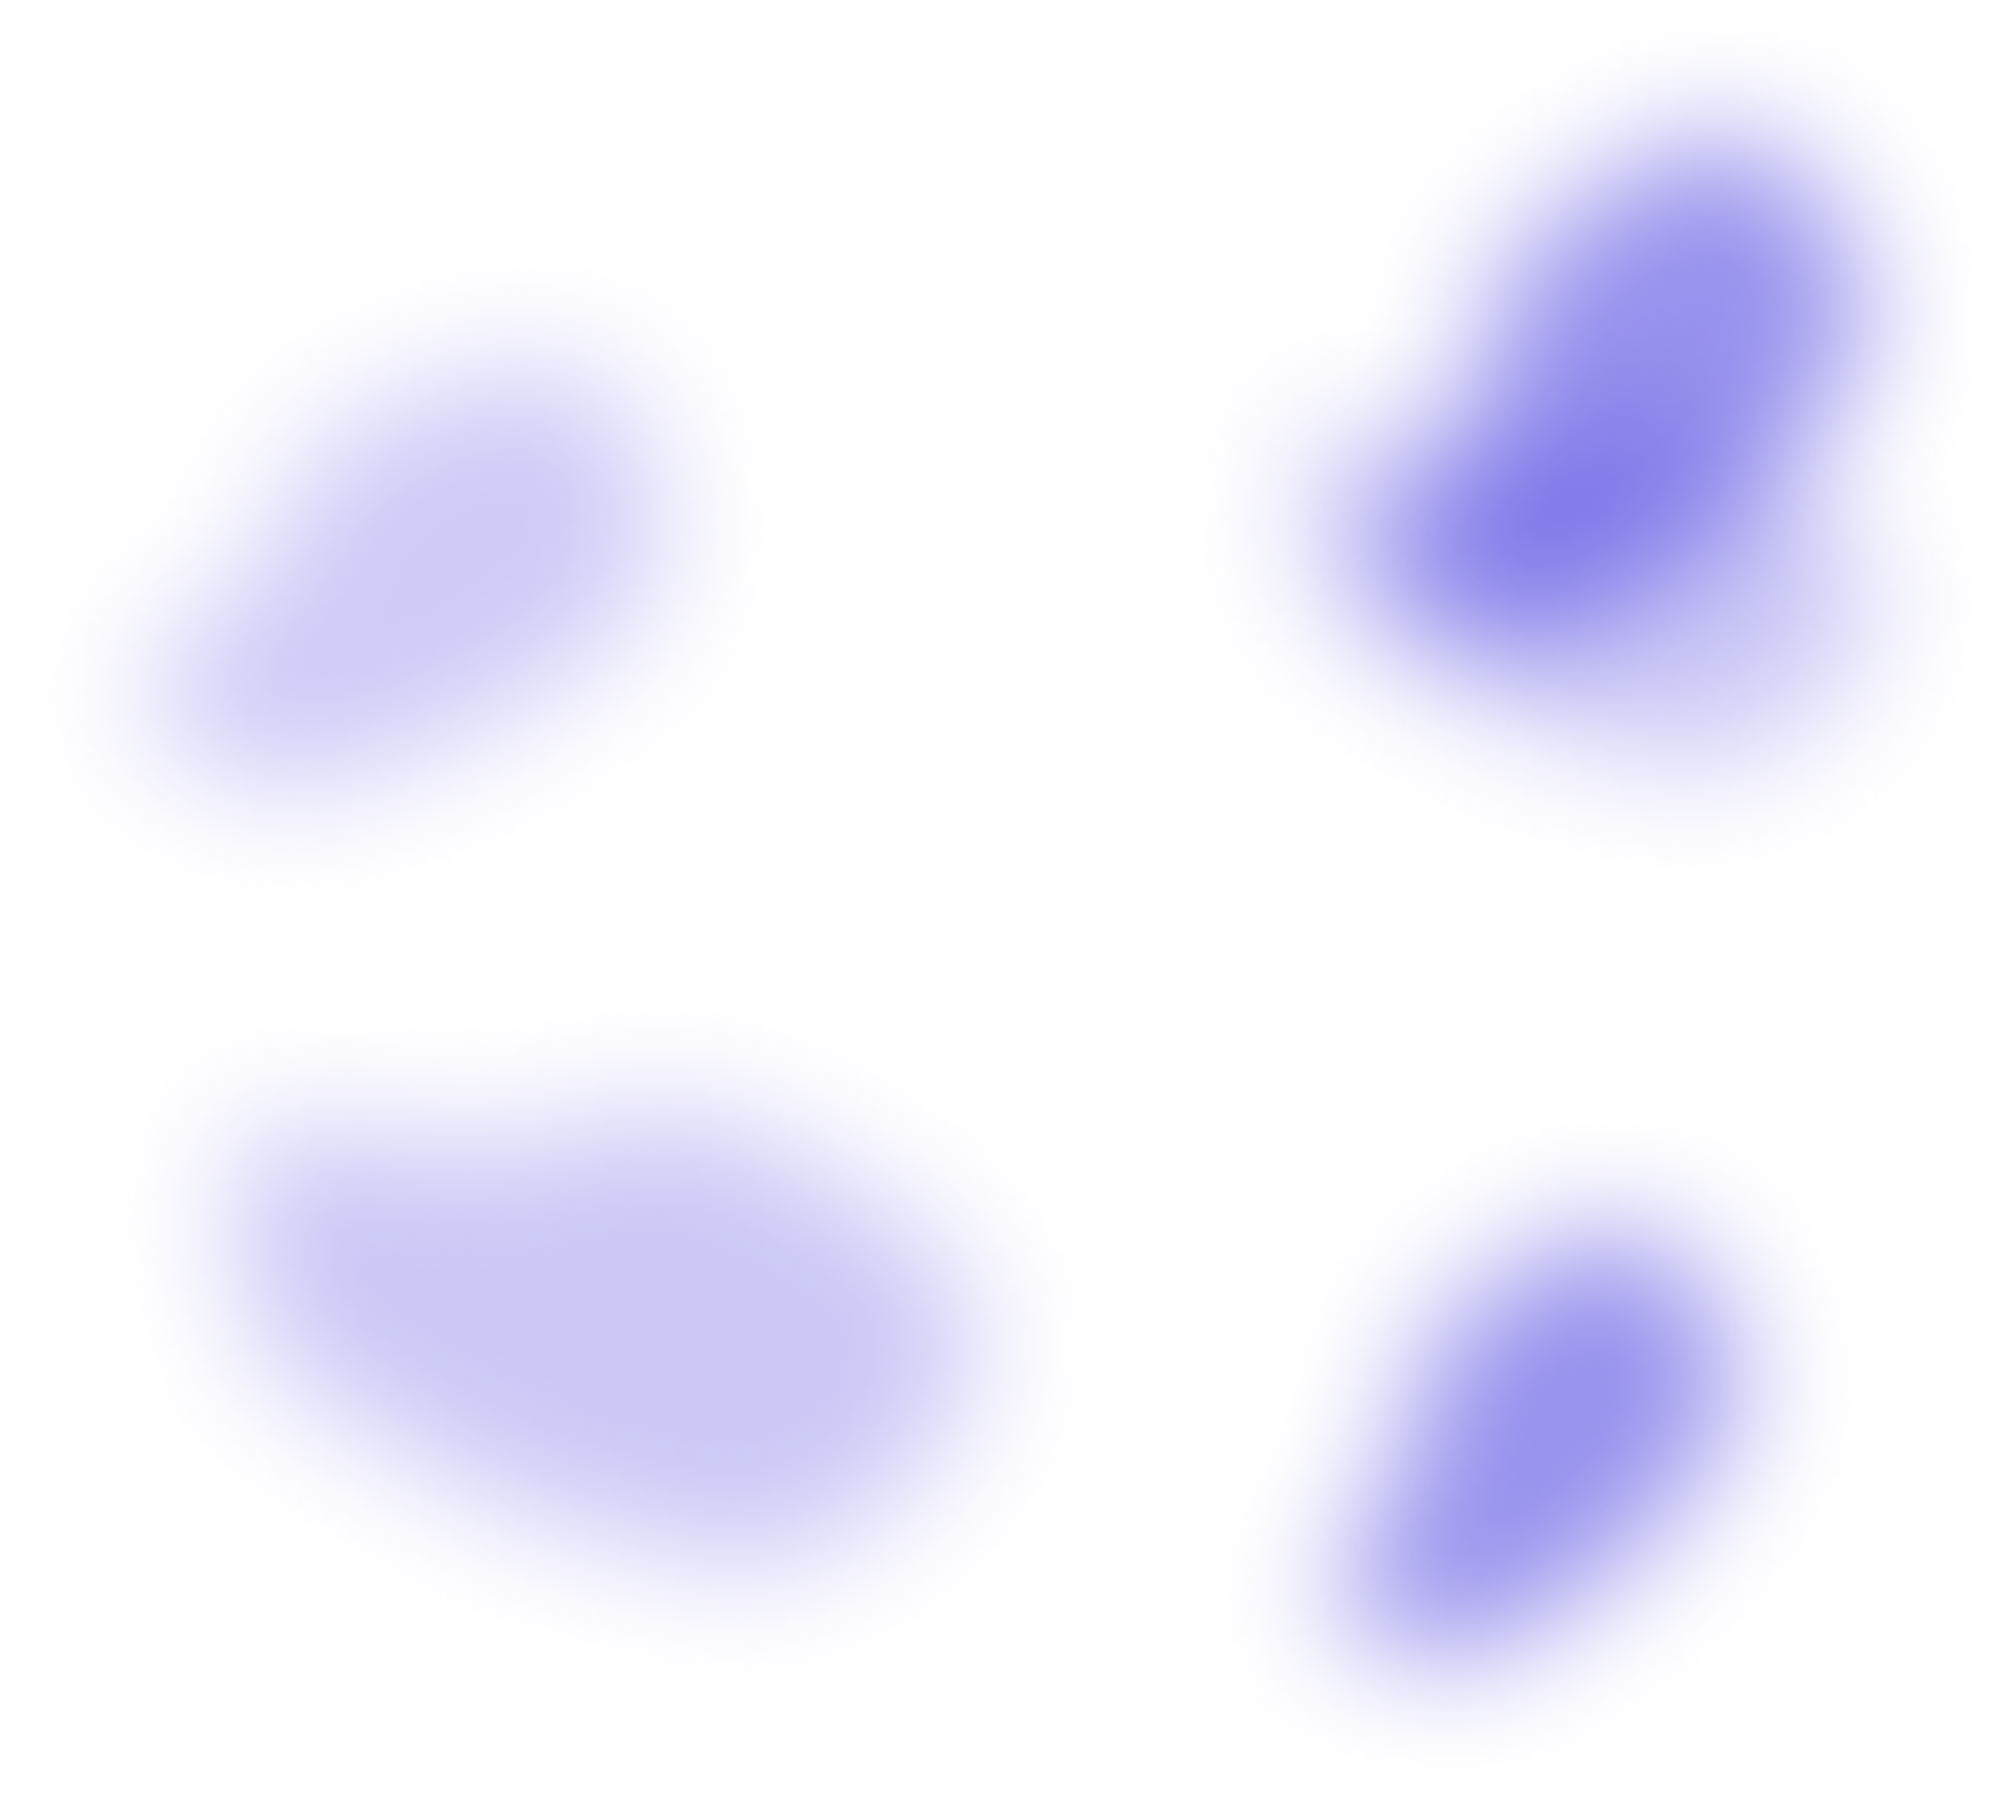
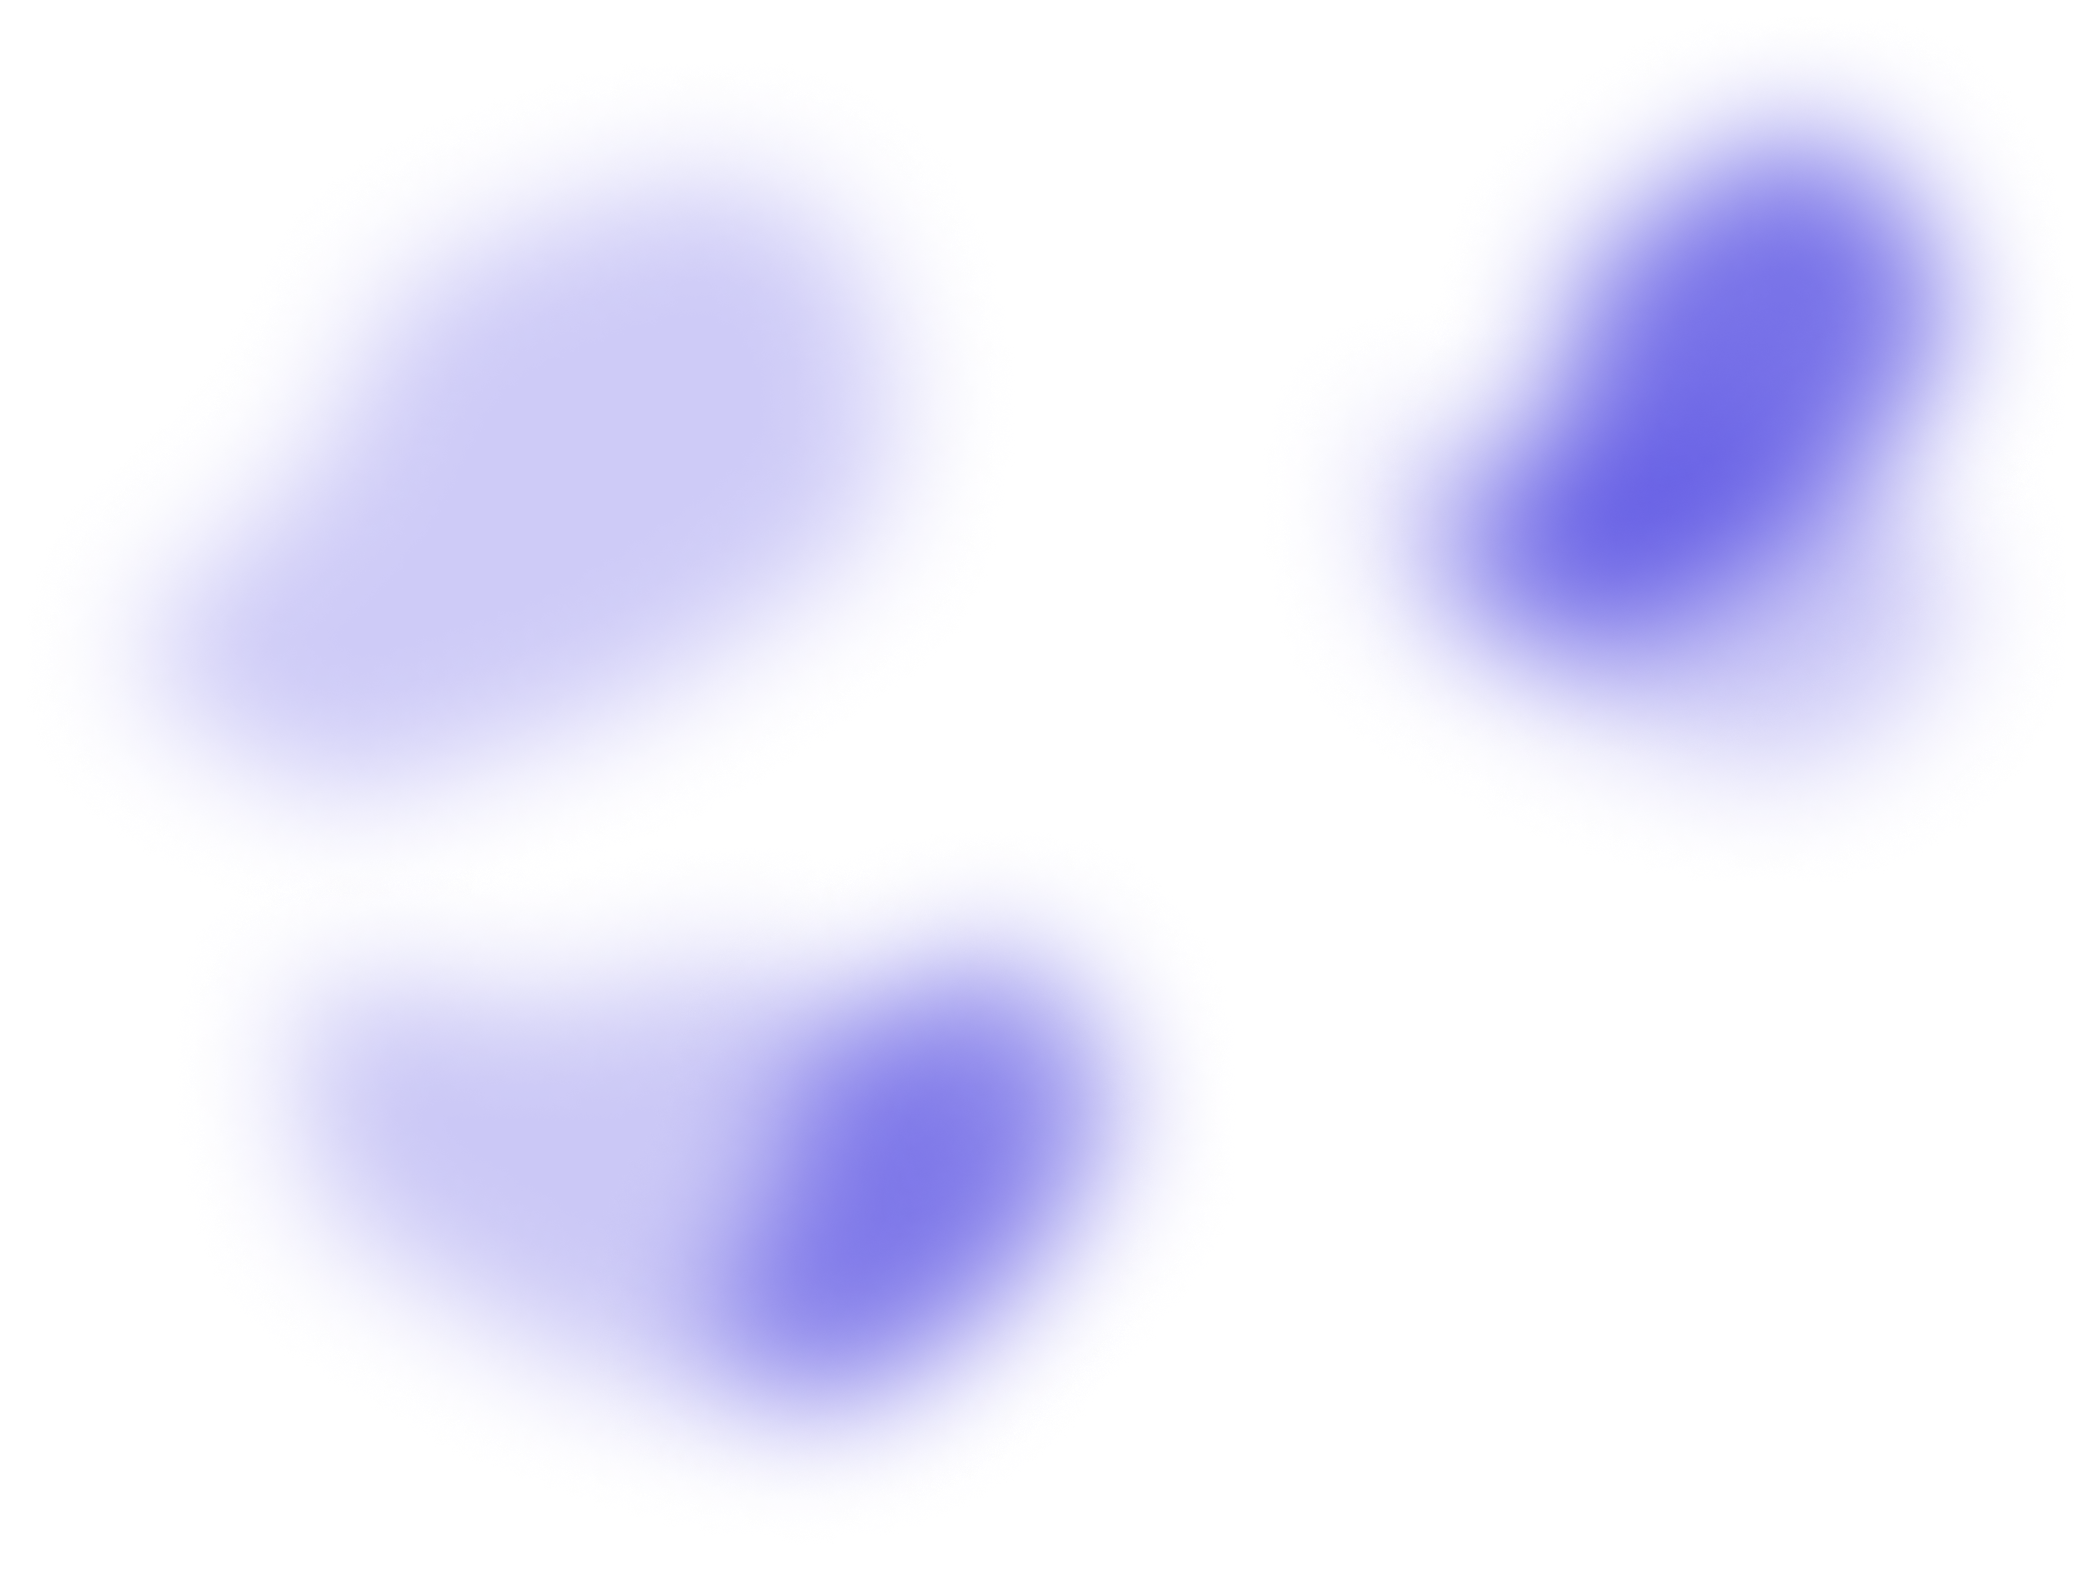
fix: adjust animations and backgounds

diff --git a/src/components/Home/Competencies/Competencies.tsx b/src/components/Home/Competencies/Competencies.tsx
@@ -12,16 +12,16 @@ const Competencies = () => {
   }
 
   return (
-    <section id="advantages" className={`bg-brand-400 py-11 relative transition-all duration-300 ${!seeMore ? 'max-h-mobile md:max-h-desktop overflow-hidden' : 'h-fit'}  after:content-[""] after:w-full after:h-80 after:absolute after:bottom-0 after:z-10 after:bg-gradient-to-t from-brand-400 ...`}>
+    <section id="advantages" className={`bg-brand-400 py-11 relative bg-[url('../assets/blur.png')] bg-no-repeat bg-cover transition-all duration-300 ${!seeMore ? 'max-h-mobile md:max-h-desktop overflow-hidden' : 'h-fit'}  after:content-[""] after:w-full after:h-80 after:absolute after:bottom-0 after:z-10 after:bg-gradient-to-t from-brand-400 ...`}>
       <div className='my-0 mx-auto p-4 max-w-screen-2xl flex flex-col gap-11'>
         <div className='font-default-font flex flex-col gap-2'>
-          <h2 data-aos="fade-right" className=' text-white-primary text-2xl	font-extrabold'>Porquê vale a pena?</h2>
+          <h2 data-aos="fade-right" className=' text-2xl max-w-xs font-extrabold bg-advantagesGradient bg-clip-text text-transparent'>Porquê vale a pena?</h2>
           <p data-aos="fade-right" className='text-grey-100 text-xs	font-light'>Entenda como podemos facilitar o seu dia a dia</p>
         </div>
 
         <ul className='flex flex-wrap	gap-6 justify-between pb-14'>
           {dataCard.map((data) => (
-             <li data-aos="fade-up" data-aos-delay={`${data.id * 200}`} data-aos-offset="100" key={data.id} className='flex flex-col flex-1 gap-6 bg-white-primary rounded-lg	py-4 px-6 min-w-card max-w-md md:max-w-xs md:flex-none'>
+             <li data-aos="fade-up" data-aos-delay={`${data.id * 150}`} data-aos-offset="100" key={data.id} className='flex flex-col flex-1 gap-6 bg-white-primary rounded-lg	py-4 px-6 min-w-card max-w-md md:max-w-xs md:flex-none'>
              <div className='flex gap-3 items-center'>
                <div className='rounded-full border-grey-100 border p-1'>
                  <MdGraphicEq className='text-brand-200' size={24}/>

diff --git a/src/components/Home/Contact/Contact.tsx b/src/components/Home/Contact/Contact.tsx
@@ -19,16 +19,16 @@ const Contact = () => {
             <p className="text-base text-brand-500 font-default-font font-normal">+55 99 99999-9999</p>
           </div> */}
 
-          <div className="flex gap-2 items-center">
+          <div data-aos="fade-right" className="flex gap-2 items-center">
             <IoIosCopy title="Copiar email" className="text-white-total cursor-pointer " size={16}/>
-            <Link href={"mailto:swiftstock@gmail.com"} className="text-base text-brand-500 font-default-font font-normal underline">swiftstock@gmail.com</Link>
+            <Link href={"mailto:switftstock@gmail.com"} className="text-base text-brand-500 font-default-font font-normal underline">switftstock@gmail.com</Link>
           </div>
         </div>
       </div>
 
       <div className="flex flex-col gap-4 w-full md:flex-row justify-center md:w-auto">
   {/* <Link className="flex items-center justify-center py-3 rounded w-full md:w-auto bg-white-primary text-brand-300 font-default-font font-semibold text-base md:px-16" href="#">Whatsapp</Link> */}
-  <Link className="flex items-center justify-center py-3 rounded w-full md:w-auto bg-white-primary text-brand-300 font-default-font font-semibold text-base md:px-16" href="#">Enviar Email</Link>
+  <Link data-aos="fade-right" className="flex items-center justify-center py-3 rounded w-full md:w-auto bg-white-primary text-brand-300 font-default-font font-semibold text-base md:px-16" href="mailto:switftstock@gmail.com">Enviar Email</Link>
 </div>
 
       </div>

diff --git a/src/components/Home/SocialMediaLinks/SocialMediaLinks.tsx b/src/components/Home/SocialMediaLinks/SocialMediaLinks.tsx
@@ -12,15 +12,15 @@ interface ISocialMediaLinksProps{
 const SocialMediaLinks = ({bigger}: ISocialMediaLinksProps) => {
     return(
         <div className="flex justify-center md:justify-end items-center gap-6">
-            <Link data-aos="fade-up" href="" data-aos-offset="0" className="transition-all ease-in duration-75 hover:-translate-y-1">
+            <Link href=""className="transition-all ease-in duration-75 hover:-translate-y-1">
                 <RiWhatsappFill className={`${bigger ? "w-6 h-6" : "w-5 h-5"}`}/>
             </Link>
 
-            <Link data-aos="fade-up" data-aos-delay="250" data-aos-offset="0" href="https://www.linkedin.com/in/swift-stock-3a2403286/" className="transition-all ease-in duration-75 hover:-translate-y-1">
+            <Link href="https://www.linkedin.com/in/swift-stock-3a2403286/" className="transition-all ease-in duration-75 hover:-translate-y-1">
                 <FaLinkedin className={`${bigger ? "w-6 h-6" : "w-5 h-5"}`}/>
             </Link>
 
-            <Link data-aos="fade-up" data-aos-delay="500" data-aos-offset="0" href="https://www.instagram.com/switftstock" className="transition-all ease-in duration-75 hover:-translate-y-1">
+            <Link href="https://www.instagram.com/switftstock" className="transition-all ease-in duration-75 hover:-translate-y-1">
                 <PiInstagramLogoFill className={`${bigger ? "w-6 h-6" : "w-5 h-5"}`}/>
             </Link>
         </div>

diff --git a/src/components/Home/HomeForm/HomeForm.tsx b/src/components/Home/HomeForm/HomeForm.tsx
@@ -90,13 +90,13 @@ const HomeForm = () => {
                             placeholder="Insira seu Número de telefone" type="text" minLength={15} maxLength={15} value={phoneNumber} required 
                             onChange={(e) => handlePhoneNumberChange(e)}
                         />
-                        <div data-aos="fade-right" className="flex items-center gap-3">
+                        <div data-aos="zoom-in-up" className="flex items-center gap-3">
                             <input id="accept-notifications" type="checkbox" required/>
                             <label htmlFor="accept-notifications" className="text-grey-300 text-xs font-normal">
                                 Concordo em ser notificado sobre o lançamento da Swift Stock
                             </label>
                         </div>
-                        <Button aos="fade-right" type="submit" className="mt-6 max-w-full rounded-md">Quero ser notificado!</Button>
+                        <Button aos="zoom-in-up" type="submit" className="mt-6 max-w-full rounded-md">Quero ser notificado!</Button>
                     </form>
 
                 </div>

diff --git a/src/components/Home/About/About.tsx b/src/components/Home/About/About.tsx
@@ -3,6 +3,7 @@ import Link from "next/link";
 import { PiArrowUpLight } from "react-icons/pi";
 import logoIcon from "../../../assets/logoIcon.svg";
 import Image from "next/image";
+import swiftStockUI from "../../../assets/swifStockUI.jpg";
 
 
 const About = () => {
@@ -29,10 +30,10 @@ const About = () => {
                 </div>
             </Container>
 
-            <figure className="w-full max-w-7xl h-[720px] overflow-auto bg-brand-400 rounded-2xl flex items-center justify-center
+            <figure data-aos="fade-left" className="w-full max-w-7xl h-[720px] overflow-auto bg-brand-400 rounded-2xl flex items-start justify-start
             shadow-2xl m-5 lg:absolute lg:-right-[500px] 2xl:-right-[450px] lg:-top-28 lg:w-[1280px]">
-                <img className="w-full h-full object-cover"
-                src="" 
+                <img className="h-full lg:w-full lg:h-auto object-cover"
+                src={swiftStockUI.src}
                 alt="interface da SwiftStock"/>
             </figure>
 

diff --git a/src/components/Home/Footer/Footer.tsx b/src/components/Home/Footer/Footer.tsx
@@ -8,7 +8,7 @@ import { AiOutlineArrowUp } from "react-icons/ai";
 
 const Footer = () => {
     return(
-        <footer className="bottom-0 w-screen h-96 bg-brand-400 py-8 bg-[url('/src/assets/footerBg.png')]">
+        <footer className="bottom-0 w-screen h-96 bg-brand-400 py-8 bg-[url('../assets/blur.png')] bg-no-repeat bg-cover">
             <Container className="relative  h-full">
 
                 <div className="group w-100 flex justify-center -translate-y-16">

diff --git a/tailwind.config.js b/tailwind.config.js
@@ -9,6 +9,7 @@ module.exports = {
     extend: {
       backgroundImage: {
         headingGradient: 'radial-gradient(circle, #E4E4E4, #9AAFFF)',
+        advantagesGradient: 'linear-gradient(to right, #E4E4E4, #9A9A9A)',
         logoPattern: 'url("../assets/contact-bg.png")',
       },
     },
